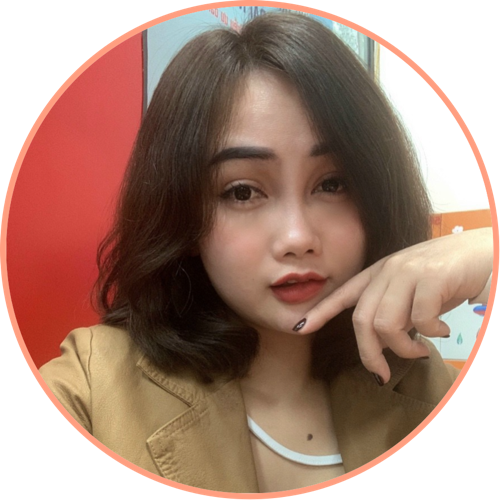
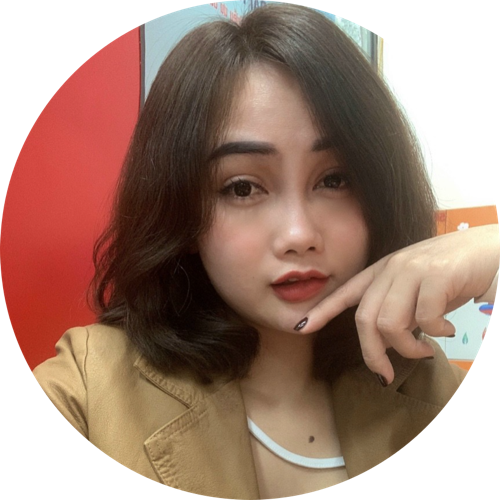
-

diff --git a/Info/System/Scripts/Style.css b/Info/System/Scripts/Style.css
@@ -6,9 +6,13 @@
   box-sizing: border-box;
 }
 
+
 .imageChange {
-  max-width: 100px;
+  max-width: 140px;
   height: auto;
+  border-radius: 120px;
+  border: 4px solid #5777B899;
+  box-shadow: 0px 0px 18px #5777B8;
 }
 
 .wrapper {
@@ -204,18 +208,19 @@ h1, h2, h3, h4, h5, h6, p {
 
 .scroll_view>.img_card {
   background-color: #000;
-  width: 250px;
-  margin-left: 0px;
-  margin-right: 15px;
+  width: 210px;
+  margin-left: 1px;
+  margin-right: 14px;
   margin-top: 20px;
-  margin-bottom: 100px;
-  border-radius: 36px;
-  border: 4px solid #666;
+  margin-bottom: 40px;
+  border-radius: 32px;
+  border: 7px solid #000;
   font-weight: bold;
   position: relative;
   display: inline-block;
   font-size: 0px;
-  -webkit-box-reflect: below 0em -webkit-gradient(linear,left top, left bottom, from(transparent), color-stop(80%, transparent), to(rgba(0,0,0, 0.3)));
+  box-shadow: 0px 1px 0px #555660, 0px -1px 0px #555660, 1px 0px 0px #555660, -1px 0px 0px #555660;
+  -webkit-box-reflect: below 0em -webkit-gradient(linear,left top, left bottom, from(transparent), color-stop(90%, transparent), to(rgba(0,0,0, 0.3)));
 }
 
 .card>p {

diff --git a/Info/Html/MusicArtworkSave.html b/Info/Html/MusicArtworkSave.html
@@ -31,8 +31,7 @@
 </div>
 <br><br>
 <div class="md_view">
-<p><h1>MusicArtworkSave</h1>
-
+<p>
 <h2>Lưu Ảnh minh họa Album trong ứng dụng Nhạc!</h2>
 <br>
 
